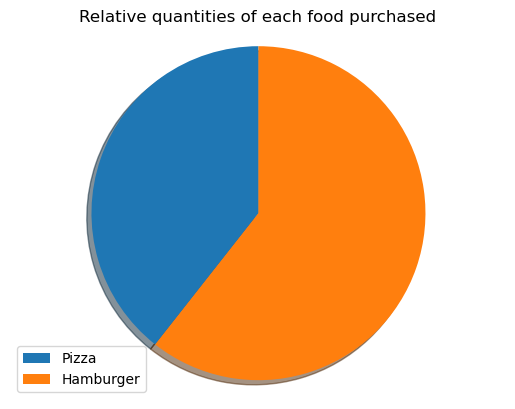
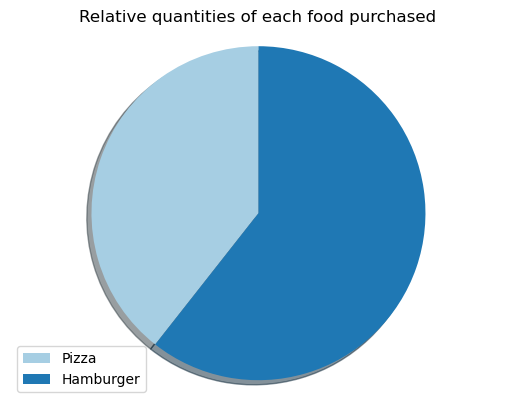
final edits for basic viz

diff --git a/viz/viz.py b/viz/viz.py
@@ -8,14 +8,19 @@
 #       myviz.viz_user_spending(data)       # call the appropriate viz method (could use one of other three)
 #       # Do something with "viz.png"       # note that visualization is saved as "viz.png" in the current directory
 #       myviz.delete()                      # deletes "viz.png" from the current directory and then deletes Viz object
-#
+# Imports for basic visualizations
 import re
 import pandas as pd
-import geopandas as gpd
 import numpy as np
 import matplotlib.pyplot as plt
 import seaborn as sns
 
+# Ended up not using map-based visualizations:
+
+# Imports for map-based viz - 1
+# import geopandas as gpd
+
+# Imports for map-based viz - 2
 # import geoviews as gv
 # import geoviews.title_sources as gvts
 # from geoviews import dim, opts
@@ -23,16 +28,10 @@ import seaborn as sns
 
 # Constants for maps
 # get longitude, latitude
-loc_foco = [43.703022, -72.291034]
-loc_hop = []
+# loc_foco = [43.703022, -72.291034]
+# loc_hop = []
 # loc_lous = [43.702674, -72.289859]
 # loc_pine = [43.702224, -72.289156]
-
-# JSON strings passed into viz.py
-# array of [ { RestaurantName, MoneySpent } ... ]
-# array of [ { RestaurantName, MealCount } ... ]
-# array of [ { FoodName, FoodCount } ... ]
-# array of [ { FoodName, FoodRevenue } ... ]
 
 class Viz:
     pass
@@ -94,10 +93,12 @@ class Viz:
         X,Y = self.customJSONparse(data,'f')
 
         # Plot
+        sns.set_palette("Paired")
         sns.barplot(X, Y)
+        ax.set(ylabel='Money Spent')
 
         #plt.show()
-        plt.savefig('viz1.png',bbox_inches='tight')  # Save the final pie chart
+        plt.savefig('viz.png',bbox_inches='tight')  # Save the final pie chart
         plt.clf()
 
         return
@@ -115,10 +116,12 @@ class Viz:
         X,Y = self.customJSONparse(data,'i')
 
         # Plot
-        sns.barplot(X, Y)
+        sns.set_palette("Paired")
+        ax = sns.barplot(X, Y)
+        ax.set(ylabel='No. of Meals')
 
         #plt.show()
-        plt.savefig('viz2.png',bbox_inches='tight')  # Save the final pie chart
+        plt.savefig('viz.png',bbox_inches='tight')  # Save the final pie chart
         plt.clf()
 
         return
@@ -137,6 +140,7 @@ class Viz:
 
         # Consider removing foods that never have been purchased
 
+        sns.set_palette("Paired")
         plt.pie(wedges, labels=labels, labeldistance=None, shadow=True, startangle=90)
         # Removed options: autopct=lambda p: '{:.1f}%'.format(round(p)) if p > 0 else ''
         plt.axis('equal')   # Equal aspect ratio (pie drawn as a circle)
@@ -144,7 +148,7 @@ class Viz:
         plt.title("Relative quantities of each food purchased")
 
         #plt.show()
-        plt.savefig('viz3.png',bbox_inches='tight')  # Save the final pie chart
+        plt.savefig('viz.png',bbox_inches='tight')  # Save the final pie chart
         plt.clf()
 
         return 
@@ -162,7 +166,8 @@ class Viz:
         labels,wedges = self.customJSONparse(data, 'f')
 
         # Consider removing foods that have zero money spent on them
-        
+
+        sns.set_palette("Paired")
         plt.pie(wedges, labels=labels, labeldistance=None, shadow=True, startangle=90)
         # Removed options: autopct=lambda p: '{:.1f}%'.format(round(p)) if p > 0 else ''
         plt.axis('equal')   # Equal aspect ratio (pie drawn as a circle)
@@ -170,7 +175,7 @@ class Viz:
         plt.title("Share of money spent on each food")
 
         #plt.show()
-        plt.savefig('viz4.png',bbox_inches='tight')  # Save the final pie chart
+        plt.savefig('viz.png',bbox_inches='tight')  # Save the final pie chart
         plt.clf()
 
         return 
@@ -183,14 +188,20 @@ class Viz:
 # data_3 = [["Naan","Dosa","Paneer","Bhatura","Butter chicken","Chana masala","Chaat"],[1,5,3,4,0,2,6]]
 # data_4 = [["Naan","Dosa","Paneer","Bhatura","Butter chicken","Chana masala","Chaat"],[85.30,60.25,12.53,4.56,0,40.30,20.05]]
 
-# Example JSON string data to visualize
-data_1 = "[{u'RestaurantName': u'Courtyard Cafe', u'MoneySpent': 14.5}, {u'RestaurantName': u'Foco', u'MoneySpent': 7.75}]"
-data_2 = "[{u'RestaurantName': u'Courtyard Cafe', u'MealCount': 13}, {u'RestaurantName': u'Foco', u'MealCount': 20}]"
-data_3 = "[{u'FoodName': u'Pizza', u'FoodCount': 13}, {u'FoodName': u'Hamburger', u'FoodCount': 20}]"
-data_4 = "[{u'FoodName': u'Pizza Cafe', u'FoodRevenue': 13.87}, {u'FoodName': u'Hamburger', u'FoodRevenue': 84.28}]"
+# JSON strings passed into viz.py
+# array of [ { RestaurantName, MoneySpent } ... ]
+# array of [ { RestaurantName, MealCount } ... ]
+# array of [ { FoodName, FoodCount } ... ]
+# array of [ { FoodName, FoodRevenue } ... ]
 
-myviz = Viz()                       # instantiate a Viz object
-myviz.viz_user_spending(data_1)     # call viz method 1
-myviz.viz_user_freq(data_2)         # call viz method 2
-myviz.viz_rez_quantity(data_3)      # call viz method 3
-myviz.viz_rest_money(data_4)        # call viz method 4
+# # Example JSON string data to visualize
+# data_1 = "[{u'RestaurantName': u'Courtyard Cafe', u'MoneySpent': 14.5}, {u'RestaurantName': u'Foco', u'MoneySpent': 7.75}]"
+# data_2 = "[{u'RestaurantName': u'Courtyard Cafe', u'MealCount': 13}, {u'RestaurantName': u'Foco', u'MealCount': 20}]"
+# data_3 = "[{u'FoodName': u'Pizza', u'FoodCount': 13}, {u'FoodName': u'Hamburger', u'FoodCount': 20}]"
+# data_4 = "[{u'FoodName': u'Pizza Cafe', u'FoodRevenue': 13.87}, {u'FoodName': u'Hamburger', u'FoodRevenue': 84.28}]"
+
+# myviz = Viz()                       # instantiate a Viz object
+# myviz.viz_user_spending(data_1)     # call viz method 1
+# myviz.viz_user_freq(data_2)         # call viz method 2
+# myviz.viz_rez_quantity(data_3)      # call viz method 3
+# myviz.viz_rest_money(data_4)        # call viz method 4
